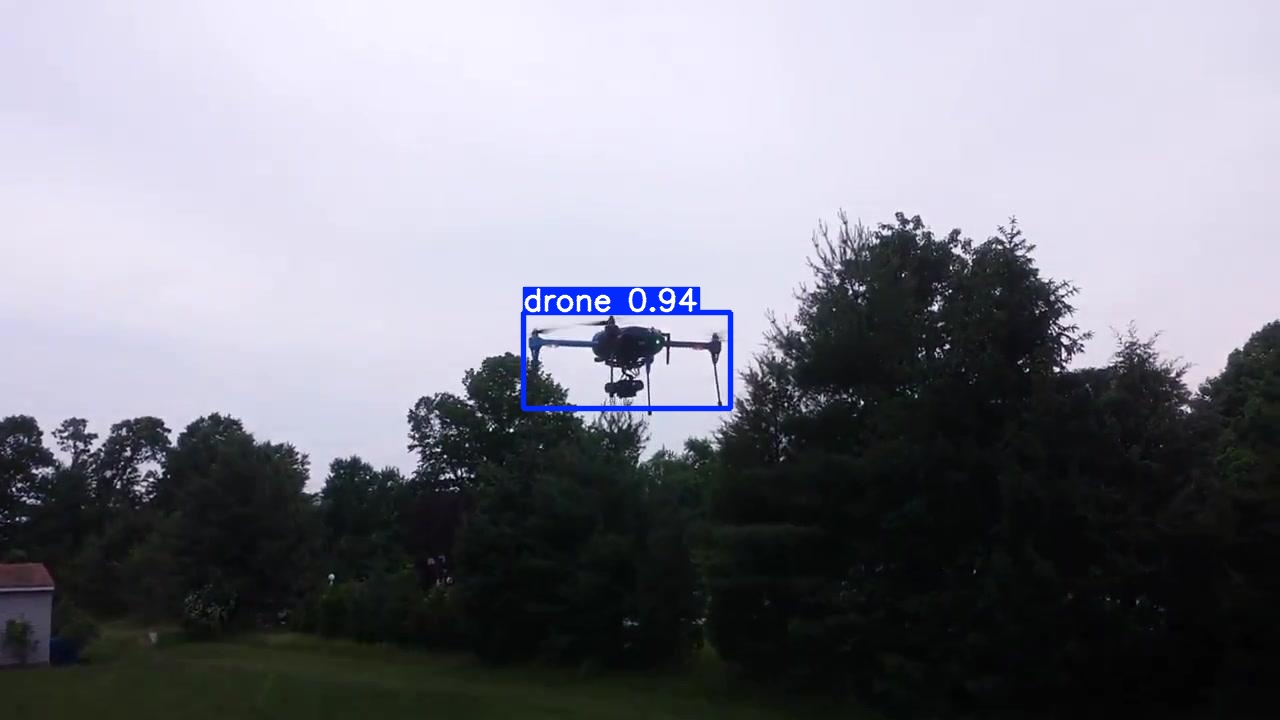
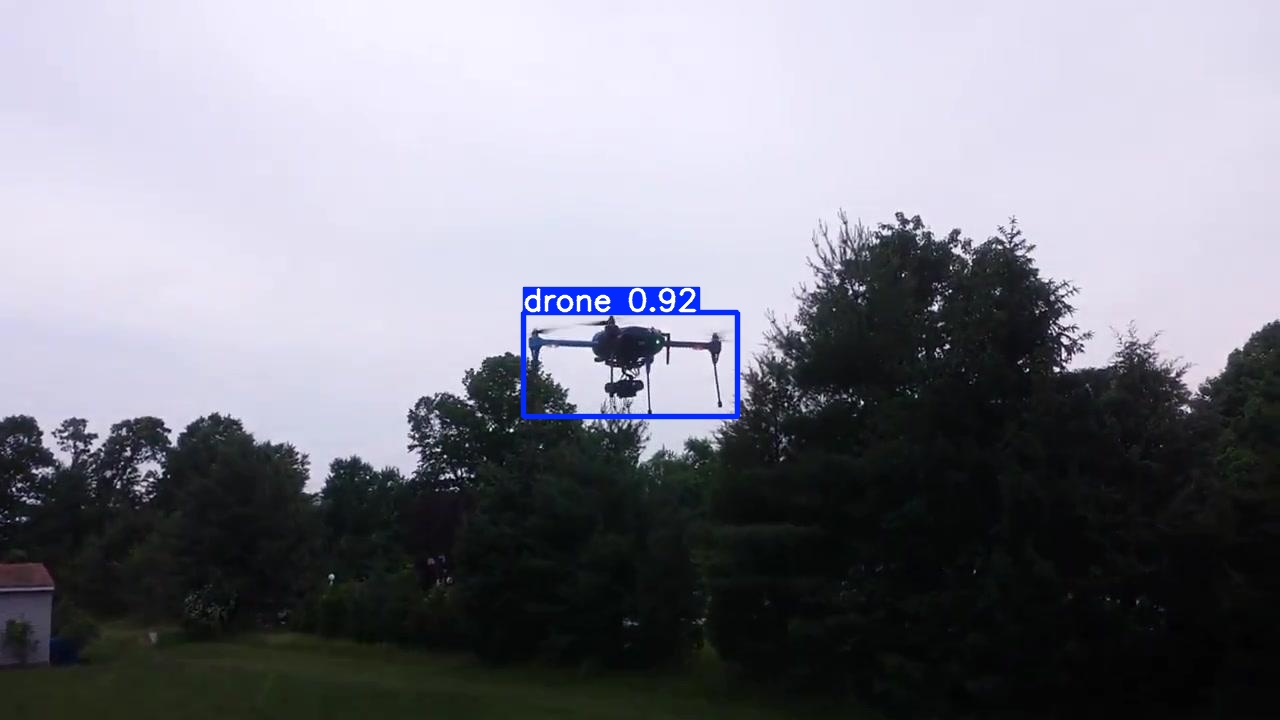
docs(demo): 추론 예시를 merged-300ep로 최신화 (+지면 예시 ground0~3)
- demo/: DUT-test image0~9 (300ep, 10/10 탐지) + Maciullo-test ground0~3 신규
- demo가 parity 입력이므로 3개 모델 parity 기준 재생성 + Vulkan self-test 전부 PASS 재확인
- README(ko/en) demo 섹션·재현 커맨드 갱신, 100ep/300ep Pareto 관점 반영(균형 최적 단정 완화)

Changed region(s): [[0.4062, 0.4278, 0.5938, 0.6111], [0.5312, 0.3972, 0.5625, 0.4278]]

diff --git a/README.md b/README.md
@@ -48,8 +48,9 @@
 | merged-100ep | Maciullo-test | **0.891** | **0.445** | 0.924 | **0.836** | **0.047** | **0.829** |
 | **merged-300ep** | Maciullo-test | 0.858 | 0.415 | 0.916 | 0.822 | 0.067 | 0.798 |
 
-- 300ep: DUT 회복(≈old 동급, FP/img 최저) + Maciullo 대폭 개선 유지 → **균형 최적**.
-- 100ep: Maciullo 최고, DUT 소폭 희생 → 지면 특화. 상세: [reports/old_vs_new.md](reports/old_vs_new.md).
+- 300ep: 전 도메인 무회귀(DUT ≈ old, FP/img 최저) → 범용 권장.
+- 100ep: 이미지-가중 평균 mAP 최고(지면 셋 우세) → 지면·근접 위주 배포 시 선택.
+- 둘은 Pareto 관계 — 최적은 배포 도메인 prior 로 결정. 상세: [reports/old_vs_new.md](reports/old_vs_new.md).
 
 ### 추론 속도 — GPU (RTX 4090)
 
@@ -113,13 +114,14 @@ imgsz 960(입력 `[1,3,960,960]`) yolo26n_960 10.0/5.1/**3.2** MB · yolo26s_960
 
 ## Demo (추론 예시)
 
-test set 추론 결과 — `yolo26n_640`(메인 배포 모델), imgsz 640, conf 0.25. (`demo/`에 image0~9 전체)
+test set 추론 결과 — `yolo26n` **merged-300ep**(권장 배포 모델), imgsz 640, conf 0.25.
+(`demo/`: 공중 DUT-test `image0~9` + 지면 Maciullo-test `ground0~3`)
 
-| image0 | image2 | image8 |
+| image0 (공중) | image8 (공중) | ground1 (지면) |
 |:---:|:---:|:---:|
-| ![image0](demo/image0.jpg) | ![image2](demo/image2.jpg) | ![image8](demo/image8.jpg) |
+| ![image0](demo/image0.jpg) | ![image8](demo/image8.jpg) | ![ground1](demo/ground1.jpg) |
 
-재현: `python scripts/predict.py --weights weights/yolo26n_drone_640.pt --imgsz 640 --source /mnt/ssd_0/dataset/dut_yolo/images/test --max 10 --out demo`
+재현: `python scripts/predict.py --weights weights/yolo26n_drone_640_mergedataset_300epoch.pt --imgsz 640 --source /mnt/ssd_0/dataset/dut_yolo/images/test --max 10 --out demo`
 
 ---
 

diff --git a/weights/parity_ncnn.md b/weights/parity_ncnn.md
@@ -1,24 +1,28 @@
 # ncnn(CPU) vs ONNX Runtime(FP32) parity — yolo26n_drone_640
 
-- demo 10장, imgsz=640, conf=0.25
+- demo 14장, imgsz=640, conf=0.25
 - ncnn: FP16 export, `use_vulkan_compute=false`(CPU). one-to-many head + IoU 0.7 NMS.
 - 비교 공간: 640 letterbox 입력 좌표(동일 전처리).
 
 | 이미지 | ORT det | ncnn det | matched(IoU≥0.5) | mean\|Δscore\| | mean IoU |
 |---|---:|---:|---:|---:|---:|
+| ground0.jpg | 0 | 0 | 0 | nan | nan |
+| ground1.jpg | 1 | 1 | 1 | 0.0839 | 0.9861 |
+| ground2.jpg | 3 | 3 | 3 | 0.0800 | 0.9218 |
+| ground3.jpg | 0 | 0 | 0 | nan | nan |
 | image0.jpg | 0 | 0 | 0 | nan | nan |
-| image1.jpg | 0 | 0 | 0 | nan | nan |
-| image2.jpg | 0 | 1 | 0 | nan | nan |
+| image1.jpg | 1 | 1 | 1 | 0.1606 | 0.9764 |
+| image2.jpg | 1 | 1 | 1 | 0.2165 | 0.9684 |
 | image3.jpg | 0 | 0 | 0 | nan | nan |
 | image4.jpg | 0 | 0 | 0 | nan | nan |
-| image5.jpg | 1 | 1 | 1 | 0.0016 | 0.9893 |
-| image6.jpg | 1 | 1 | 1 | 0.0260 | 0.9765 |
-| image7.jpg | 1 | 1 | 1 | 0.0264 | 0.9696 |
-| image8.jpg | 1 | 1 | 1 | 0.0371 | 0.9913 |
-| image9.jpg | 1 | 1 | 1 | 0.0210 | 0.9858 |
+| image5.jpg | 1 | 1 | 1 | 0.0144 | 0.9763 |
+| image6.jpg | 1 | 1 | 1 | 0.0208 | 0.9902 |
+| image7.jpg | 1 | 1 | 1 | 0.0309 | 0.9654 |
+| image8.jpg | 1 | 1 | 1 | 0.0320 | 0.9677 |
+| image9.jpg | 1 | 1 | 1 | 0.2145 | 0.9883 |
 
-**합계**: ORT 5 · ncnn 6 · matched 5
-**평균 |Δscore|** 0.0224 · **평균 IoU** 0.9825
+**합계**: ORT 11 · ncnn 11 · matched 11
+**평균 |Δscore|** 0.0948 · **평균 IoU** 0.9712
 
 **게이트(det ±1, IoU≥0.95, |Δscore|≤0.1): PASS ✅**
 

diff --git a/weights/parity_ncnn_mergedataset_100epoch.md b/weights/parity_ncnn_mergedataset_100epoch.md
@@ -1,24 +1,28 @@
 # ncnn(CPU) vs ONNX Runtime(FP32) parity — yolo26n_drone_640
 
-- demo 10장, imgsz=640, conf=0.25
+- demo 14장, imgsz=640, conf=0.25
 - ncnn: FP16 export, `use_vulkan_compute=false`(CPU). one-to-many head + IoU 0.7 NMS.
 - 비교 공간: 640 letterbox 입력 좌표(동일 전처리).
 
 | 이미지 | ORT det | ncnn det | matched(IoU≥0.5) | mean\|Δscore\| | mean IoU |
 |---|---:|---:|---:|---:|---:|
+| ground0.jpg | 0 | 0 | 0 | nan | nan |
+| ground1.jpg | 1 | 1 | 1 | 0.0116 | 0.9868 |
+| ground2.jpg | 1 | 0 | 0 | nan | nan |
+| ground3.jpg | 0 | 0 | 0 | nan | nan |
 | image0.jpg | 0 | 0 | 0 | nan | nan |
-| image1.jpg | 0 | 0 | 0 | nan | nan |
-| image2.jpg | 1 | 0 | 0 | nan | nan |
+| image1.jpg | 1 | 1 | 1 | 0.1236 | 0.9260 |
+| image2.jpg | 1 | 1 | 1 | 0.0080 | 0.9732 |
 | image3.jpg | 0 | 0 | 0 | nan | nan |
-| image4.jpg | 1 | 1 | 1 | 0.0649 | 0.9708 |
+| image4.jpg | 0 | 0 | 0 | nan | nan |
 | image5.jpg | 0 | 0 | 0 | nan | nan |
-| image6.jpg | 1 | 0 | 0 | nan | nan |
-| image7.jpg | 1 | 1 | 1 | 0.0569 | 0.9687 |
+| image6.jpg | 1 | 1 | 1 | 0.1729 | 0.9848 |
+| image7.jpg | 1 | 1 | 1 | 0.0572 | 0.9704 |
 | image8.jpg | 0 | 0 | 0 | nan | nan |
-| image9.jpg | 1 | 1 | 1 | 0.0247 | 0.9800 |
+| image9.jpg | 1 | 1 | 1 | 0.0243 | 0.9871 |
 
-**합계**: ORT 5 · ncnn 3 · matched 3
-**평균 |Δscore|** 0.0488 · **평균 IoU** 0.9732
+**합계**: ORT 7 · ncnn 6 · matched 6
+**평균 |Δscore|** 0.0663 · **평균 IoU** 0.9714
 
 **게이트(det ±1, IoU≥0.95, |Δscore|≤0.1): PASS ✅**
 

diff --git a/weights/parity_ncnn_mergedataset_300epoch.md b/weights/parity_ncnn_mergedataset_300epoch.md
@@ -1,24 +1,28 @@
 # ncnn(CPU) vs ONNX Runtime(FP32) parity — yolo26n_drone_640
 
-- demo 10장, imgsz=640, conf=0.25
+- demo 14장, imgsz=640, conf=0.25
 - ncnn: FP16 export, `use_vulkan_compute=false`(CPU). one-to-many head + IoU 0.7 NMS.
 - 비교 공간: 640 letterbox 입력 좌표(동일 전처리).
 
 | 이미지 | ORT det | ncnn det | matched(IoU≥0.5) | mean\|Δscore\| | mean IoU |
 |---|---:|---:|---:|---:|---:|
+| ground0.jpg | 0 | 0 | 0 | nan | nan |
+| ground1.jpg | 1 | 1 | 1 | 0.0222 | 0.9867 |
+| ground2.jpg | 0 | 0 | 0 | nan | nan |
+| ground3.jpg | 0 | 0 | 0 | nan | nan |
 | image0.jpg | 0 | 0 | 0 | nan | nan |
-| image1.jpg | 1 | 1 | 1 | 0.0872 | 0.9791 |
+| image1.jpg | 1 | 1 | 1 | 0.0824 | 0.9611 |
 | image2.jpg | 0 | 0 | 0 | nan | nan |
 | image3.jpg | 0 | 0 | 0 | nan | nan |
-| image4.jpg | 1 | 1 | 1 | 0.0168 | 0.9786 |
+| image4.jpg | 0 | 0 | 0 | nan | nan |
 | image5.jpg | 0 | 0 | 0 | nan | nan |
 | image6.jpg | 0 | 0 | 0 | nan | nan |
-| image7.jpg | 1 | 1 | 1 | 0.0264 | 0.9969 |
-| image8.jpg | 1 | 1 | 1 | 0.0407 | 0.9782 |
-| image9.jpg | 1 | 1 | 1 | 0.1175 | 0.9848 |
+| image7.jpg | 1 | 1 | 1 | 0.0293 | 0.9959 |
+| image8.jpg | 1 | 1 | 1 | 0.1063 | 0.9951 |
+| image9.jpg | 1 | 1 | 1 | 0.0649 | 0.9908 |
 
 **합계**: ORT 5 · ncnn 5 · matched 5
-**평균 |Δscore|** 0.0577 · **평균 IoU** 0.9835
+**평균 |Δscore|** 0.0610 · **평균 IoU** 0.9859
 
 **게이트(det ±1, IoU≥0.95, |Δscore|≤0.1): PASS ✅**
 

diff --git a/README_English.md b/README_English.md
@@ -101,13 +101,14 @@ imgsz 960 (input `[1,3,960,960]`) yolo26n_960 10.0/5.1/**3.2** MB · yolo26s_960
 
 ## Demo (inference examples)
 
-test set inference — `yolo26n_640` (main deploy model), imgsz 640, conf 0.25. (`demo/` holds image0~9)
+test set inference — `yolo26n` **merged-300ep** (recommended deploy model), imgsz 640, conf 0.25.
+(`demo/`: aerial DUT-test `image0~9` + ground Maciullo-test `ground0~3`)
 
-| image0 | image2 | image4 |
+| image0 (aerial) | image4 (aerial) | ground1 (ground) |
 |:---:|:---:|:---:|
-| ![image0](demo/image0.jpg) | ![image2](demo/image2.jpg) | ![image4](demo/image4.jpg) |
+| ![image0](demo/image0.jpg) | ![image4](demo/image4.jpg) | ![ground1](demo/ground1.jpg) |
 
-Reproduce: `python scripts/predict.py --weights weights/yolo26n_drone_640.pt --imgsz 640 --source /mnt/ssd_0/dataset/dut_yolo/images/test --max 10 --out demo`
+Reproduce: `python scripts/predict.py --weights weights/yolo26n_drone_640_mergedataset_300epoch.pt --imgsz 640 --source /mnt/ssd_0/dataset/dut_yolo/images/test --max 10 --out demo`
 
 ---
 

diff --git a/reports/old_vs_new.md b/reports/old_vs_new.md
@@ -14,8 +14,9 @@
 | merged-100ep | Maciullo-test | **0.891** | **0.445** | 0.924 | **0.836** | **0.047** | **0.829** |
 | **merged-300ep** | Maciullo-test | 0.858 | 0.415 | 0.916 | 0.822 | 0.067 | 0.798 |
 
-- 300ep: DUT 회복(≈old 동급, FP/img 최저) + Maciullo 대폭 개선 유지 → **균형 최적**.
-- 100ep: Maciullo 최고, DUT 소폭 희생 → 지면 특화.
+- 300ep: 전 도메인 무회귀(DUT ≈ old, FP/img 최저) → 범용 권장.
+- 100ep: 이미지-가중 평균 mAP 최고(mAP50 0.907 vs 300ep 0.900) → 지면·근접 위주 배포 시 선택.
+- 둘은 Pareto 관계 — 최적은 배포 도메인 prior 로 결정.
 - best.pt 선택 기준이 DUT-val이라 장기 학습(300ep)이 DUT 쪽으로 재수렴.
 
 > 비교 조건: best.pt vs best.pt, 동일 test set. 이미지 노출량 old 0.70M / 100ep 5.66M / 300ep ~17M — epoch cap이 merged를 불리하게 하지 않음.
